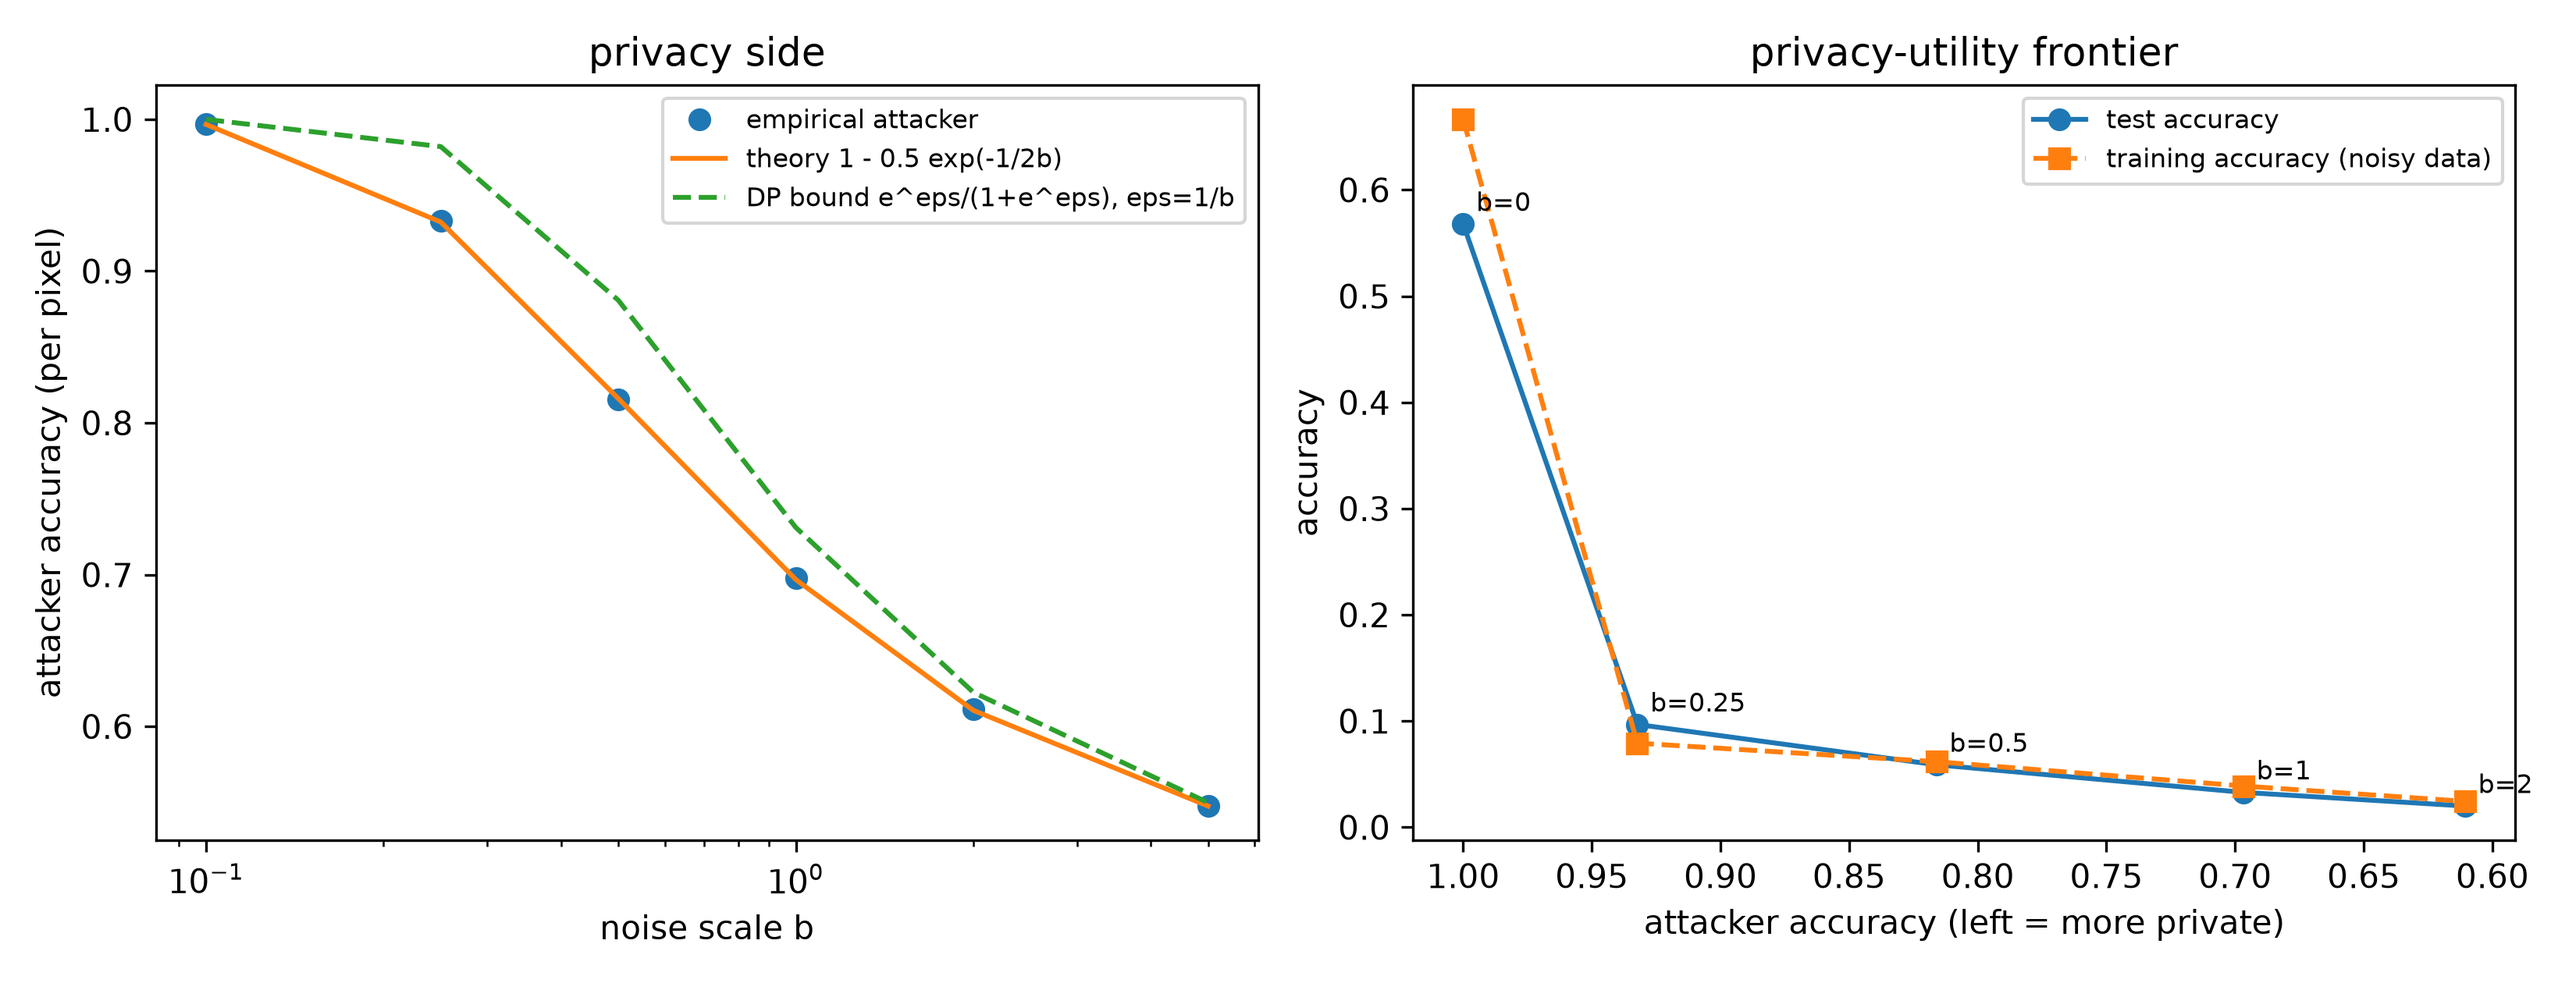
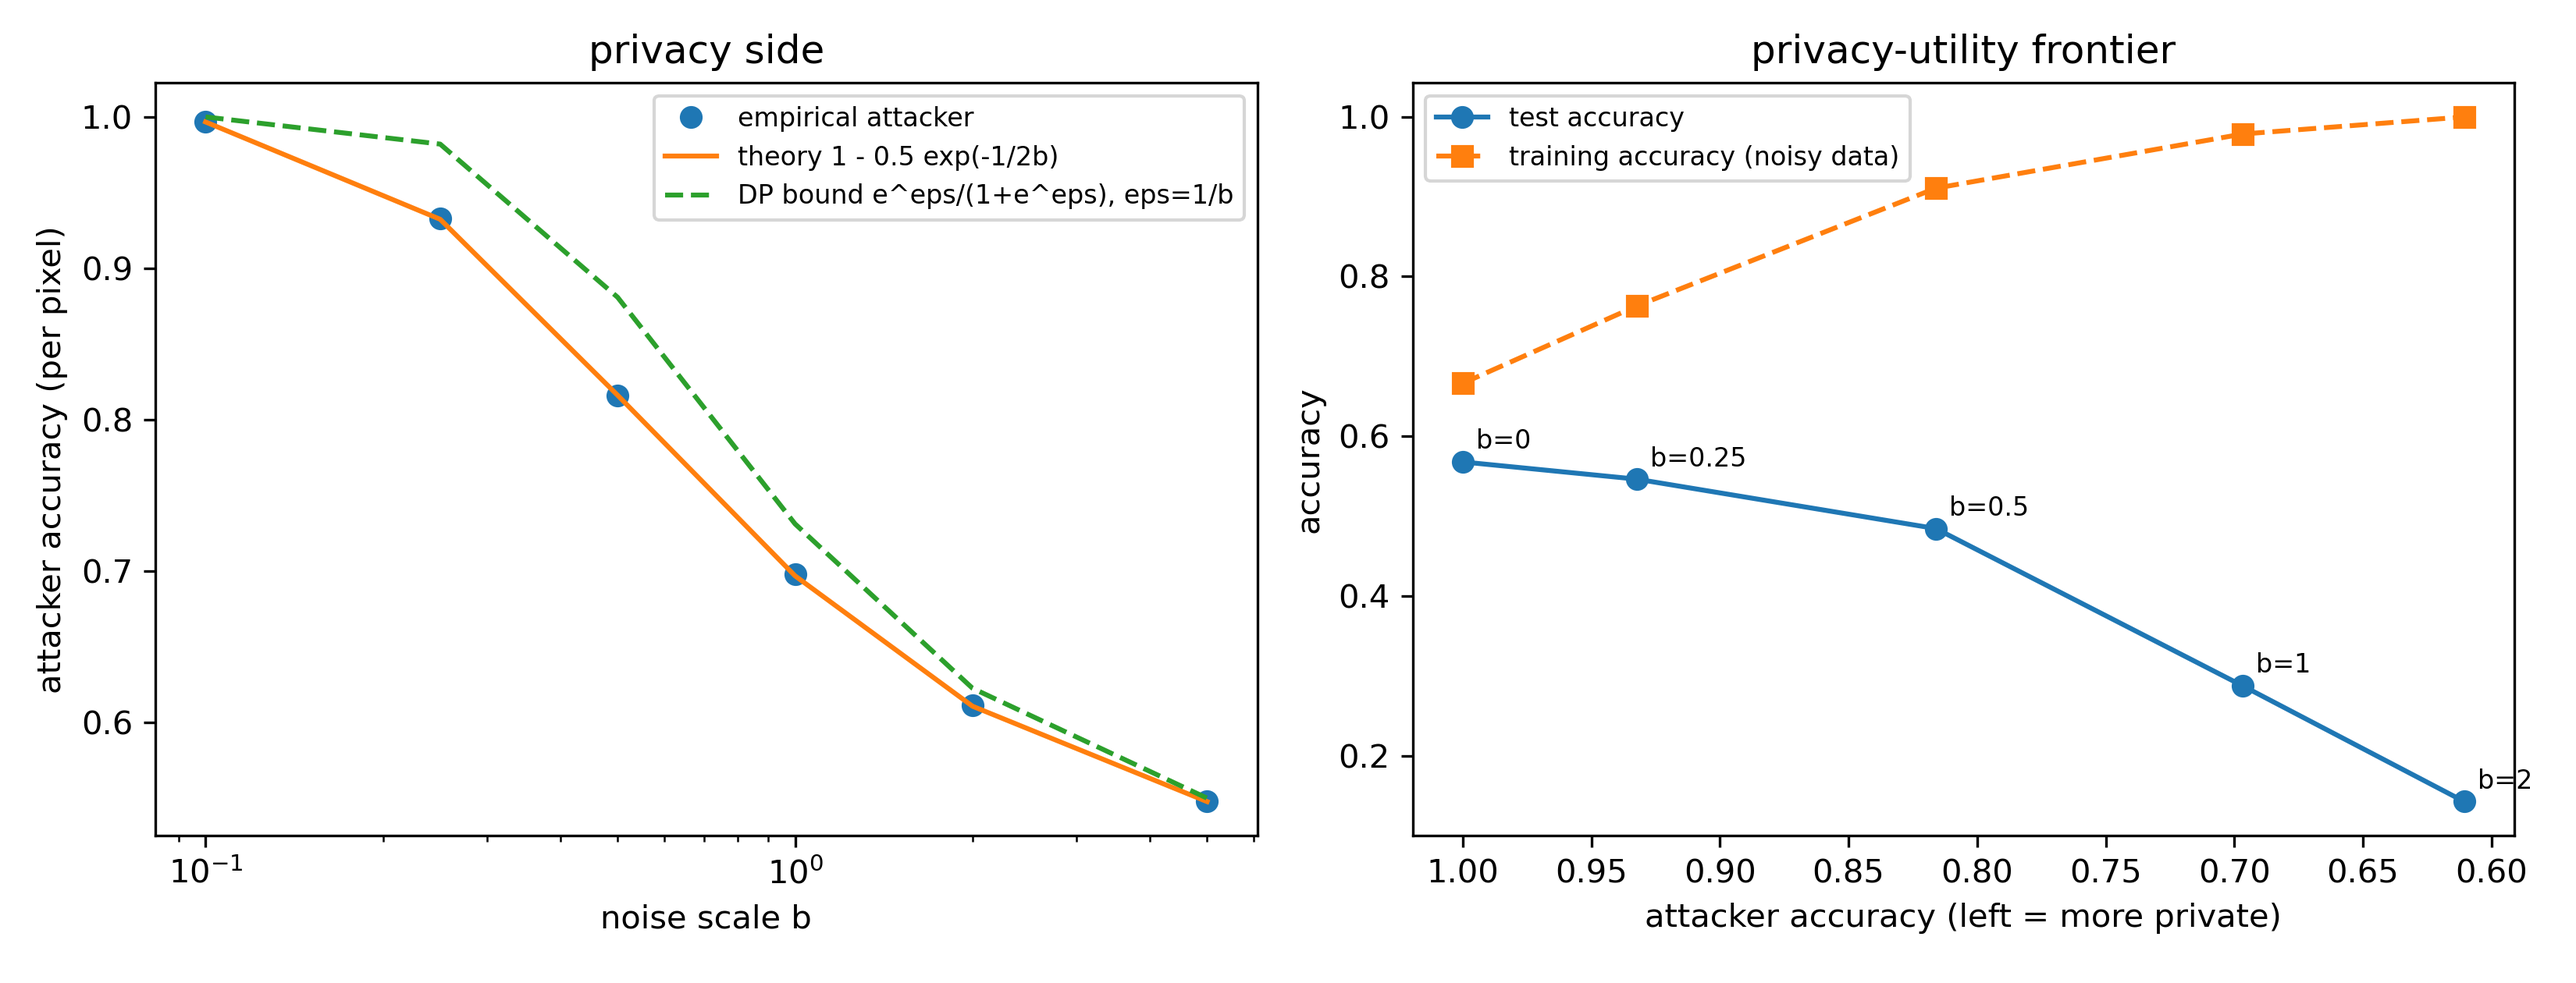
Final commit, contains updated plots, figures, and code. Also pushed README.md.

diff --git a/src/validation/val_differential_privacy.py b/src/validation/val_differential_privacy.py
@@ -2,6 +2,7 @@
 val_differential_privacy.py - edge cases and validation experiments for Part 2 (Laplace input perturbation).
 Every check is tagged [EDGE] (edge case or limit case) or [VALID] (validation of correct behavior).
 Run from src/validation:  python validation_dp.py (QUICK=1 for a short run)
+Recommended to run using script: scripts/run_validation.sh dp
 
 Blocks: the noise really is Laplace(0, b) and independent; the design rules (fixed noise, clean test set, b=0 reproduces Part 1) hold in the real code path; the noise power matches theory; an attacker recovering pixels from the perturbed data does exactly as well as Laplace theory predicts (so b means what we claim); and accuracy falls with b once the learning rate confound is removed.
 """
@@ -165,26 +166,52 @@ def attack_tests():
 
 ### D7 / D8
 def utility_tests():
-    section("D7 LEARNING-RATE CONFOUND AND D8 ACCURACY VS b")
+    '''Accuracy should fall with b and a fixed learning rate.'''
+    section("D7 LEARNING RATE AND D8 ACCURACY VS b (fixed lr, as in Part 1)")
     R = 20 if QUICK else 60
     seeds = (0,) if QUICK else (0, 1)
     bs = (0.0, 0.25, 0.5, 1.0, 2.0)
-    scaled = {b: [dp_run(train, test, b, C=0.1, epochs=E, lr=LR, batch_size=BS, rounds=R, seed=s, scale_lr=True) for s in seeds] for b in bs}
-    fixed = {b: dp_run(train, test, b, C=0.1, epochs=E, lr=LR, batch_size=BS, rounds=R, seed=0, scale_lr=False) for b in (0.5, 2.0)}
-    print(f"\n\t{'b':>5}{'lr used':>9}{'test acc (scaled lr)':>22}{'test acc (fixed lr)':>21}")
-    for b in bs:
-        ta = [r[2] for r in scaled[b]]
-        fx = f"{fixed[b][2]:.3f}{' (diverged)' if not np.isfinite(fixed[b][1]) else ''}" if b in fixed else "-"
-        print(f"\t{b:>5}{scaled[b][0][3]:>9.4f}{np.mean(ta):>14.3f} +- {np.std(ta):.3f}{fx:>21}")
+
+    def run(b, lr, seed=0, scale=False):
+        return dp_run(train, test, b, C=0.1, epochs=E, lr=lr, batch_size=BS,
+                      rounds=R, seed=seed, scale_lr=scale)
+
+    # r = (history, test_loss, test_acc, lr_used); validation accuracy = mean of the last 10 rounds
+    val = lambda r: float(np.mean([h["val_acc"] for h in r[0][-10:]]))
+
+    fixed = {b: [run(b, LR, s) for s in seeds] for b in bs}
+
+    # D7: does the learning rate need to change with b? The lr is picked on VALIDATION accuracy only.
+    grid = (0.02, LR, 0.1)
+    chosen = {}
+    print(f"\n\t{'b':>5}" + "".join(f"{'val@' + str(lr):>10}" for lr in grid)
+          + f"{'chosen':>9}{'test(chosen)':>14}{'test(' + str(LR) + ')':>12}")
     for b in (0.5, 2.0):
-        check(f"[VALID] D7 b={b}: the scaled learning rate is smaller than the fixed one", scaled[b][0][3] < LR)
-        check(f"[VALID] D7 b={b}: scaling the learning rate never hurts test accuracy (tolerance 0.01)", np.mean([r[2] for r in scaled[b]]) >= fixed[b][2] - 0.01, f"scaled {np.mean([r[2] for r in scaled[b]]):.3f}, fixed {fixed[b][2]:.3f}")
-    check("[VALID] D7 with the scaled learning rate no run diverges", all(np.isfinite(r[1]) for b in bs for r in scaled[b]))
-    acc = [np.mean([r[2] for r in scaled[b]]) for b in bs]
+        runs = {lr: (fixed[b][0] if lr == LR else run(b, lr)) for lr in grid}
+        best = max(grid, key=lambda lr: val(runs[lr]))
+        chosen[b] = (best, runs)
+        print(f"\t{b:>5}" + "".join(f"{val(runs[lr]):>10.3f}" for lr in grid)
+              + f"{best:>9}{runs[best][2]:>14.3f}{runs[LR][2]:>12.3f}")
+    scaled = run(0.5, LR, scale=True)
+    print(f"\n\tb=0.5 with the ||x||^2-scaled lr ({scaled[3]:.4f}): test acc {scaled[2]:.3f} "
+          f"vs {fixed[0.5][0][2]:.3f} with lr={LR}")
+
+    check("[VALID] D7 with the Part 1 learning rate no run diverges at any b", all(np.isfinite(r[1]) for b in bs for r in fixed[b]))
+    for b, (best, runs) in chosen.items():
+        check(f"[VALID] D7 b={b}: keeping lr={LR} costs at most 0.02 test accuracy against the lr picked on validation ({best})",
+              runs[LR][2] >= runs[best][2] - 0.02, f"{runs[LR][2]:.3f} vs {runs[best][2]:.3f}")
+    check("[VALID] D7 finding: scaling the lr by ||x||^2 (the old --scale-lr) is worse than the fixed lr at b=0.5",
+          scaled[2] < fixed[0.5][0][2], f"{scaled[2]:.3f} vs {fixed[0.5][0][2]:.3f}")
+
+    acc = [float(np.mean([r[2] for r in fixed[b]])) for b in bs]
+    std = [float(np.std([r[2] for r in fixed[b]])) for b in bs]
+    print("\n\t    b   test acc (fixed lr)")
+    for b, a, s in zip(bs, acc, std):
+        print(f"\t{b:>5}   {a:.3f} +- {s:.3f}")
     check("[VALID] D8 mean test accuracy never rises as b grows (tolerance 0.02)", all(b2 <= b1 + 0.02 for b1, b2 in zip(acc, acc[1:])))
     check("[VALID] D8 b = 2 loses at least 0.1 of the noiseless test accuracy", acc[-1] < acc[0] - 0.1, f"{acc[0]:.3f} -> {acc[-1]:.3f}")
     check("[VALID] D8 noise never helps: every noisy test accuracy is at most the noiseless one + 0.02", all(a <= acc[0] + 0.02 for a in acc))
-    train_acc = [np.mean([np.mean([h["train_acc"] for h in r[0][-10:]]) for r in scaled[b]]) for b in bs]
+    train_acc = [float(np.mean([np.mean([h["train_acc"] for h in r[0][-10:]]) for r in fixed[b]])) for b in bs]
     RES["utility"] = (bs, acc, train_acc)
 
 def privacy_utility_plot():

diff --git a/src/validation/val_fed_avg.py b/src/validation/val_fed_avg.py
@@ -1,7 +1,8 @@
 """
 val_fed_avg.py - edge cases and validation experiments for Part 1.1 (sequential FedAvg).
 Every check is tagged [EDGE] (edge case or limit case) or [VALID] (validation of correct behavior).
-Run from src/validation:  python validation_fedavg.py, QUICK=1 for a short run
+Run from src/validation:  python validation_fedavg.py, QUICK=1 for a short run.
+Recommended to run using script: scripts/run_validation.sh fedavg
 
 Tests an exact identity, a limit case, a control experiment with a known answer, a leakage probe, etc.
 """
@@ -240,13 +241,17 @@ def noniid_tests(clients):
     perm = np.random.default_rng(0).permutation(len(X))
     iid = [Client(i, X[s], y[s], seed=SEED) for i, s in enumerate(np.split(perm, np.cumsum(sizes)[:-1]))]
     R, E = (30 if QUICK else 300), 5
-    rec_n = run_recording(make_server(clients), {c.id: c for c in clients}, R, E, 0.05, 32)
-    rec_i = run_recording(make_server(iid), {c.id: c for c in iid}, R, E, 0.05, 32)
-    an, ai = np.mean(rec_n["val_acc"][-10:]), np.mean(rec_i["val_acc"][-10:])
+
+    srv_n, srv_i = make_server(clients), make_server(iid) # keep the servers
+    rec_n = run_recording(srv_n, {c.id: c for c in clients}, R, E, 0.05, 32)
+    rec_i = run_recording(srv_i, {c.id: c for c in iid}, R, E, 0.05, 32)
+
+    an, ai = srv_n.evaluate_test()[1], srv_i.evaluate_test()[1] # global model, clean test set
+    vn, vi = np.mean(rec_n["val_acc"][-10:]), np.mean(rec_i["val_acc"][-10:])
     cn, ci = mean_cosine(rec_n), mean_cosine(rec_i)
-    print(f"\tval acc: non-IID {an:.3f}, IID {ai:.3f} | mean update cosine: non-IID {cn:.3f}, IID {ci:.3f}")
+    print(f"\tglobal test acc: non-IID {an:.3f}, IID {ai:.3f} | local val acc (not comparable): non-IID {vn:.3f}, IID {vi:.3f} | mean update cosine: non-IID {cn:.3f}, IID {ci:.3f}")
     check("[VALID] F7 clients' updates agree more when the data is IID (higher mean cosine)", ci > cn)
-    check("[VALID] F7 FedAvg is no better on the real non-IID split than on the IID split (within 0.02)", an <= ai + 0.02)
+    check("[VALID] F7 global test accuracy is no better on the real non-IID split than on the IID split (within 0.02)", an <= ai + 0.02)
 
 ### F8
 def learning_tests(clients):

diff --git a/src/q1/parallel_clients/run_parallel.py b/src/q1/parallel_clients/run_parallel.py
@@ -28,8 +28,11 @@ def plot_history(hist, title, path):
         ax[1].plot(r, [h[k] for h in hist], label=k)
     ax[0].set(xlabel="Communication round", ylabel="Loss", title=title)
     ax[1].set(xlabel="Communication round", ylabel="Accuracy", title=title)
-    ax[0].legend(); ax[1].legend()
-    plt.tight_layout(); plt.savefig(path, dpi=150); plt.close()
+    ax[0].legend()
+    ax[1].legend()
+    plt.tight_layout()
+    plt.savefig(path, dpi=150)
+    plt.close()
 
 if __name__ == "__main__":
     ap = argparse.ArgumentParser()

diff --git a/src/validation/val_parallel.py b/src/validation/val_parallel.py
@@ -2,6 +2,7 @@
 val_parallel.py - edge cases and validation experiments for Part 1.2 (Ray actors).
 Every check is tagged [EDGE] (edge case or limit case) or [VALID] (validation of correct behavior).
 Run from src/validation:  python validation_parallel.py (QUICK=1 for a short run)
+Recommended to run using script: scripts/run_validation.sh parallel
 
 Uses the first 20 clients so that every test is fast. Needs at least 4 CPUs for the speedup checks otherwise these checks are skipped. 
 """

diff --git a/src/validation/non_standard_plot.py b/src/validation/non_standard_plot.py
@@ -1,5 +1,6 @@
 """
 non_standard_plot.py  -  the non standard plot shared by Part 1.1, Part 1.2 and Part 2.
+Recommended to run using script: scripts/run_validation.sh plot
 
 In every round each selected client returns an update delta_k = w_k - w_global.
 

diff --git a/README.md b/README.md
@@ -1,0 +1,101 @@
+# MLDS 490: Advanced Algorithms in Artifical Intelligence
+By Anuraj Nair
+
+## Homework 3
+The goal of this assignment was to implement the Federated Averaging algorithm in python, testing it in sequential and parallel settings, whilst also examining the effects of differential privacy. 
+
+## Directory Structure
+```
+.
+├── data
+│   ├── Assignment3-data # Provided separately
+│   │   ├── README.txt
+│   │   ├── test_data.npy
+│   │   └── train_data.npy
+│   ├── q1 # Generated by scripts
+│   │   └── fed_avg
+│   │       ├── fed_avg_final.png
+│   │       ├── parallel_history.json
+│   │       └── sweep_history.json
+│   ├── q2 # Generated by scripts
+│   │   ├── dp_run_b0.5.json
+│   │   └── dp_sweep.json
+├── notebooks
+│   └── part_1.ipynb
+├── plots # Generated by the src scripts
+│   ├── class_distribution.png
+│   ├── dp_accuracy_vs_noise.png
+│   ├── dp_curves_b0.5.png
+│   ├── dp_noise_examples.png
+│   ├── fed_avg_sweep.png
+│   └── parallel_fed_avg.png
+├── requirements.txt
+├── results # Log files for the validation tests, generated by running shell script.
+│   └── validation
+│       ├── non_standard_plot.log
+│       ├── summary.txt
+│       ├── val_differential_privacy.log
+│       ├── val_fed_avg.log
+│       └── val_parallel.log
+├── scripts
+│   └── run_validation.sh
+├── src
+│   ├── q1
+│   │   ├── fed_avg
+│   │   │   ├── clients.py
+│   │   │   ├── __init__.py
+│   │   │   ├── main.py
+│   │   │   ├── model.py
+│   │   │   └── server.py
+│   │   └── parallel_clients
+│   │       ├── client_actor.py
+│   │       ├── __init__.py
+│   │       ├── parallel_server.py
+│   │       ├── paths.py
+│   │       └── run_parallel.py
+│   ├── q2
+│   │   ├── design_choices.txt
+│   │   ├── noisy_client.py
+│   │   ├── paths.py
+│   │   └── run_dp.py
+│   └── validation
+│       ├── non_standard_plot.py
+│       ├── val_common.py
+│       ├── val_differential_privacy.py
+│       ├── val_fed_avg.py
+│       ├── validation_edge_cases_dictionary.md # Definitions for each edge case and validation test
+│       └── val_parallel.py
+└── validation_figures # Generated by validation scripts
+    ├── non_standard_plots.png
+    ├── val_dp_privacy_utility.png
+    └── val_fed_avg_drift_vs_E.png
+```
+
+## Set Up
+1. Pull this repo to you local machine or onto a DeepDish server.
+2. Ensure that the provided data is organized as shown above in the directory tree diagram. 
+3. We first set up the conda environment. Use `cd` commands to navigate into this repository. Then, run `conda create --prefix ./.venv python=3.12`.
+4. Activate this virtual environment: `conda activate ./.venv`.
+5. Install the necessary requirements, `pip install -r requirements.txt`.
+6. If you would like to run the attached notebook, to generate plots, create a jupyter notebook kernel for this environment: `ipython kernel install --user --name=<any name for kernel>`.
+
+## Instructions for running Federated Averaging algorithms.
+1. The following instructions should be run from the base of this directory. 
+2. You can modify the hyperparameters for training by editing the parameters in the `main()` method in the respective files `src/q1/fed_avg/main.py `, `src/q1/parallel_clients/run_parallel.py`, and `src/q2/run_dp.py`. Or, if you prefer, for both the parallel runs and the differential policy run, `run_dp`, you can specify the hyperparameters via the command line, as demonstrated in the argparse.  
+3. To run the models, from base directory, execute the following commands: 
+``` 
+python3 src/q1/fed_avg/main.py # Runs the standard, sequential, FedAvg algorithm
+python3 src/q1/parallel_clients/run_parallel.py # Runs FedAvg in parallel via Ray
+python3 src/q2/run_dp.py # Runs Differential Privacy on sequential FedAvg algorithm.
+```
+4. [WARNING] The use of a terminal multiplexer, Tmux, is highly encouraged especially when running on a remote server. To create a new Tmux, `tmux new -s fed_avg`, `tmux new -s fed_avg_parallel`, and `tmux new -s diff_privacy` to run all algorithms simultaneously. Then, run `tmux attach -t fed_avg`, `tmux attach -t fed_avg_parallel`, `tmux attach -t diff_privacy` to enter these terminals. Inside each window, you may now run the corresponding scripts using the commands from step 3.
+5. The outputs for each run, as a result, will be printed to the command line interface for the respective algorithm/multiplexer combination.
+6. For the `fed_avg` sequential run, note that if you want to sweep over different values of epochs and communication clients to use, uncomment the commented code in `src/q1/fed_avg/main.py` found in the execution block. This will output a plot showing training performance over different combinations of epochs and communical clients. 
+
+## Instructions for running Validation Tests
+1. Ensure that `run_validations.sh` has appropriate permissions: `chmod +x scripts/run_validations.sh`.
+2. Then, execute ` ./scripts/run_validations.sh`. This will run all validation tests for the three scenarios including a non standard plot.
+3. To only run a specific validation test, you may pass in additional parameters to the terminal to only run these tests for a given scenario. That is, `.scripts/run_validations.sh fedavg parallel dp plot` will run all the validation tests as well, and you can mix and match the passed parameters to run the tests you desire. The results of the edge cases and validations for each scenario will then be stored under `results/validation`. The associated plots that are generated will be stored under `validation_figures`. 
+
+## Definitions
+To find definitions of each evaluation (edge cases tests and validation tests ran), you may find the corresponding dictionary under `src/validation/validation_edge_cases_dictionary.md`, refer to the [directory](#directory-structure) for detail to the exact location of this dictionary.

diff --git a/src/validation/validation_edge_cases_dictionary.md b/src/validation/validation_edge_cases_dictionary.md
@@ -63,7 +63,7 @@ Each script ends with a PASS count per tag. A script exits nonzero if any check 
 | F7a | IID redistribution of the same data; mean cosine between client updates | heterogeneity lowers agreement | IID cosine > non-IID cosine |
 | F7b | Validation accuracy, IID vs real | heterogeneity does not help | non-IID <= IID + 0.02 |
 | F8a | Test loss of untrained model | near-uniform init | 3.9 < loss < 4.6 (ln 62 = 4.13) |
-| F8b | Validation accuracy after training | learns beyond majority class | > 3 x majority-class rate |
+| F8b | Global model's clean-test accuracy, IID vs real (local validation accuracy is printed but not compared: it flatters non-IID data) | learns beyond majority class | > 3 x majority-class rate |
 | F8c | First 10 vs last 10 rounds | loss decreases | last < first |
 | F8d | All logged losses | numerical stability | all finite |
 | F8e | Shuffle labels within each client | accuracy cannot come from leakage | val acc <= majority rate + 0.05 |
@@ -156,10 +156,10 @@ Uses the first 20 clients. Needs `ray` and `psutil`.
 | D6a | Attacker thresholds each pixel at 0.5 | b means what we claim | within 0.005 of 1 - 0.5 exp(-1/(2b)) |
 | D6b | Same | no attacker beats the eps = 1/b DP bound | <= e^eps/(1+e^eps) + 0.002 |
 | D6c | Same | privacy grows with b | non-increasing, last < 0.6 |
-| D7a | b = 0.5, 2: lr used | scaled lr is smaller | lr_eff < 0.05 |
-| D7b | Test accuracy, scaled vs fixed lr | scaling removes an optimization artefact | scaled >= fixed - 0.01 |
-| D7c | All scaled runs | stability | finite loss |
-| D8a | Mean test accuracy over seeds, b = 0 ... 2 | monotone degradation | non-increasing (tolerance 0.02) |
+| D7a | Part 1 learning rate at every b | the Part 1 lr is stable under noise | all losses finite |
+| D7b | b = 0.5, 2: lr grid {0.02, 0.05, 0.1} picked on validation accuracy | the lr need not change with b | lr = 0.05 within 0.02 test accuracy of the validation-picked lr |
+| D7c | b = 0.5: old `--scale-lr` (shrinks lr by the ‖x‖² ratio) vs fixed lr | the ‖x‖² scaling rule is wrong (documented finding) | scaled test accuracy < fixed |
+| D8a | Mean test accuracy over seeds at fixed lr, b = 0 ... 2 | monotone degradation | non-increasing (tolerance 0.02) |
 | D8b | b = 2 vs b = 0 | effect size | drop >= 0.1 |
 | D8c | Every b vs b = 0 | noise is not a free gain | acc <= noiseless + 0.02 |
 
